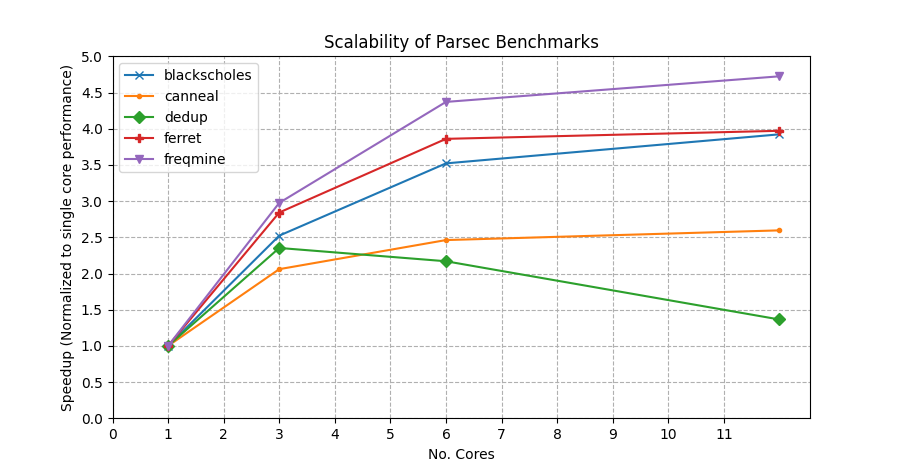
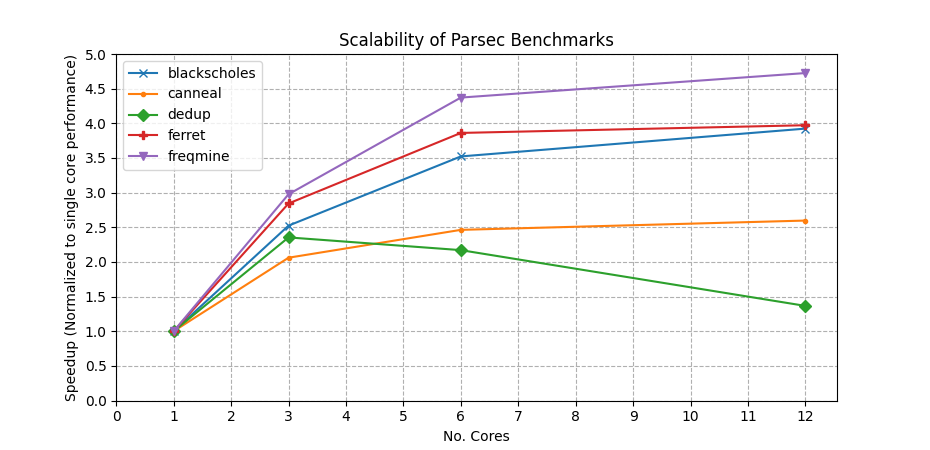
idk what

diff --git a/Plot2c.py b/Plot2c.py
@@ -49,10 +49,15 @@ plt.plot(labels, canneal_n, label = "canneal", marker='.')
 plt.plot(labels, dedup_n, label = "dedup", marker='D')
 plt.plot(labels, ferret_n, label = "ferret", marker='P')
 plt.plot(labels, freqmine_n, label = "freqmine", marker='v')
-plt.legend()
+
+handles, labels = plt.gca().get_legend_handles_labels()
+order = [4,3,0,1,2]
+plt.legend([handles[idx] for idx in order],[labels[idx] for idx in order], fontsize=10, title="Application:") 
+
+#plt.legend()
 plt.xlabel("No. Cores")
 plt.ylabel("Speedup (Normalized to single core performance)")
-plt.xticks(range(12))
+plt.xticks(range(13))
 plt.yticks([0, 0.5 ,1, 1.5, 2, 2.5, 3, 3.5, 4, 4.5, 5])
 plt.title('Scalability of Parsec Benchmarks')
 plt.grid(ls='--')
